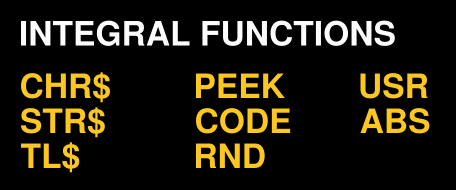
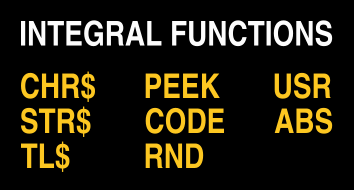
Keyboard pictures: the ZX80 functions as the ZX80's words, narrower
Viktor's choice: the words of the ZX80 functions in Heros Cn Bold, as
those of the ZX80 (7 pixels), the functions in three columns over the
width of the title, the picture as wide as the title and its margins
(101 pixels, it was 130; the window and its TImage in
KeyboardFunctions_.dfm as wide).

Claude-Session: https://claude.ai/code/session_01NM19GvsbPzKCYdva7s3UiR

diff --git a/Source/KBPics/svg/zx80functions.py b/Source/KBPics/svg/zx80functions.py
@@ -3,39 +3,52 @@
 # it), drawn again at a scale (2 if not given)
 #
 # The original (orig/zx80functions.png, 130 x 54) has no keys; the places of
-# its words are written here: their left edges and base lines, in pixels of
-# the original. The words are of Heros Bold (Viktor's choice: wide, as the
-# letters of the original), as high as the words of the ZX80 (7 pixels),
-# in the font's own spacing.
+# its words are written here, in pixels of the original. The words are of
+# Heros Cn Bold, as those of the ZX80 (7 pixels high), in the font's own
+# spacing; the functions in three columns over the width of the title
+# (Viktor's choice): the first at its left, the last ending at its right,
+# the middle one halfway between; the picture as wide as the title and the
+# margins at its sides (6 pixels, as in the original), 101 pixels (it was
+# 130: KeyboardFunctions_.dfm, the TImage and the window, as wide)
 import sys
 from kbdraw import font, hexcol
 
 WHITE, YELLOW, BLACK = (255, 255, 255), (255, 201, 33), (0, 0, 0)
-SIZE = (130, 54)
+SIZE = (101, 54)
+MARGIN = 6
 
-# The title, and the functions in three columns (as in the original)
-TITLE = ('INTEGRAL FUNCTIONS', 6, 13)
-COLUMNS = (6, 56, 103)
+# The title (its base line), and the functions (the base lines of the
+# three lines of them), as in the original
+TITLE = ('INTEGRAL FUNCTIONS', 13)
 LINES = (28, 38, 48)
 FUNCTIONS = (('CHR$', 'STR$', 'TL$'), ('PEEK', 'CODE', 'RND'), ('USR', 'ABS'))
 
 
 def main():
     S = float(sys.argv[2]) if len(sys.argv) > 2 else 2
-    f = font('herosb')
-    sc = 7 * S / f.outline('H')[1][3]
+    f = font('cnb')
+    sc = 7 / f.outline('H')[1][3]       # in pixels of the original
+
+    def width(t):
+        d, (x0, y0, x1, y1) = f.outline(t)
+        return (x1 - x0) * sc
+
     items = []
 
     def word(t, left, base, colour):
         d, (x0, y0, x1, y1) = f.outline(t)
         items.append('<path fill="%s" transform="matrix(%.5f 0 0 %.5f %.3f %.3f)" d="%s"/>'
-                     % (hexcol(colour), sc, -sc, left - sc * x0, base, d))
+                     % (hexcol(colour), sc * S, -sc * S, (left - sc * x0) * S, base * S, d))
 
-    t, left, base = TITLE
-    word(t, left * S, base * S, WHITE)
-    for x, words in zip(COLUMNS, FUNCTIONS):
-        for y, t in zip(LINES, words):
-            word(t, x * S, y * S, YELLOW)
+    t, base = TITLE
+    tw = width(t)
+    word(t, MARGIN, base, WHITE)
+    widths = [max(width(w) for w in c) for c in FUNCTIONS]
+    gap = (tw - sum(widths)) / 2
+    columns = (MARGIN, MARGIN + widths[0] + gap, MARGIN + tw - widths[2])
+    for x, words in zip(columns, FUNCTIONS):
+        for y, w in zip(LINES, words):
+            word(w, x, y, YELLOW)
 
     W, H = int((SIZE[0] * S * 4 + 2) // 4), int((SIZE[1] * S * 4 + 2) // 4)
     out = ['<svg xmlns="http://www.w3.org/2000/svg" width="%d" height="%d" viewBox="0 0 %d %d">' % (W, H, W, H),

diff --git a/Source/KBPics/svg/README.md b/Source/KBPics/svg/README.md
@@ -30,9 +30,9 @@ are sharp at any size:
 | `zx80functions.py` | `KeyboardFunctions_.dfm`, `zx80IntegralFunctions` | `orig/zx80functions.png` |
 
 They are drawn at 100% of the window (1.75 times the originals: 884 × 390,
-the keypad 263 × 390, the ZX80 functions 228 × 95), and the program holds
+the keypad 263 × 390, the ZX80 functions 177 × 95), and the program holds
 them at 200%, its largest size (1768 × 780, the keypad 526 × 780, the
-ZX80 functions 456 × 190), as PNG pictures in 256 colours
+ZX80 functions 354 × 190), as PNG pictures in 256 colours
 (the colours of the surfaces exactly) in its resources, named after the
 TImages they are shown for (`../png/<name>.png`, put into the program by
 `../../KBPics1.rc`–`KBPics3.rc`: three files, as the linker of C++Builder
@@ -131,9 +131,11 @@ graphics after them as in the original (`word(..., gap=2)`), the words of
 the large keys as in the original; its stars of three thin lines, as
 there. `analyze.py` finds its keys with `apart`, as its blue words touch
 its grey keys. The ZX80 functions (the window beside the ZX80 keyboard)
-has no keys: `zx80functions.py` gives the places of its words itself (as
-in the original), of Heros Bold (wide, as the letters there), 7 pixels
-high as the words of the ZX80.
+has no keys: `zx80functions.py` gives the places of its words itself, as
+the words of the ZX80 (Heros Cn Bold, 7 pixels high), the functions in
+three columns over the width of the title, the picture as wide as the
+title and its margins (101 pixels; the window in `KeyboardFunctions_.dfm`
+as wide).
 
 ## Making them
 

diff --git a/CHANGELOG-fork.md b/CHANGELOG-fork.md
@@ -18,7 +18,7 @@ itself are in `Release Files/Release history.txt`.
   TC2048, TS2068 and TS1500 (also with the ZXpand) keyboards, and of the
   Jupiter Ace, Lambda 8300, TK85 and Ringo R470 keyboards** are drawn
   again as vector graphics, at 100% (see below), and held at 200% (1768 ×
-  780, the keypad 526 × 780, the ZX80 functions 456 × 190) as PNG pictures
+  780, the keypad 526 × 780, the ZX80 functions 354 × 190) as PNG pictures
   in the resources of the program, so they are sharp: at 200% the picture
   is shown as it is, at the other sizes the program makes it smaller
   itself, each pixel the average of the part of the picture it covers (at
@@ -63,9 +63,10 @@ itself are in `Release Files/Release history.txt`.
   keys as in the original and their slanted letters. The Timex pictures
   keep their frames and keys pixel for pixel (sharp at every size), their
   texts are drawn again. The R470 keeps its blue L-shaped FUNC and ENTER
-  keys and its cyan GRAPHICS key. The words of the ZX80 functions are of
-  Heros Bold (wide, as in the original). The other keyboards keep their
-  pictures.
+  keys and its cyan GRAPHICS key. The words of the ZX80 functions are as
+  those of the ZX80, the functions in three columns over the width of the
+  title, and the window is narrower by so much. The other keyboards keep
+  their pictures.
 - *Help > Keyboard Map* sizes: **75%, 100%, 125%, 150%, 175% and 200%**;
   100%, the first, is 884 × 390, 1.75 times the original pictures (505 ×
   223; the sizes were 1x–2x). The size is shown in the title of the window

diff --git a/CHANGELOG-fork.hu.md b/CHANGELOG-fork.hu.md
@@ -20,7 +20,7 @@ készült. Magának az EightyOne-nak a változásai a
   valamint a Jupiter Ace, a Lambda 8300, a TK85 és a Ringo R470
   billentyűzetének** képe újra van rajzolva vektorgrafikaként, 100%-os
   méretre (lásd lent), és 200%-os méretben (1768 × 780, a keypad 526 ×
-  780, a ZX80-funkciók 456 × 190) PNG-képként van a program erőforrásai
+  780, a ZX80-funkciók 354 × 190) PNG-képként van a program erőforrásai
   között, így éles: 200%-on a kép változatlanul látszik, a többi méreten a
   program maga kicsinyíti, minden képpont a kép általa lefedett részének
   átlaga (100%-on négy képponté, így olyan éles, mint a rajz), minden
@@ -64,8 +64,9 @@ készült. Magának az EightyOne-nak a változásai a
   Timex képek keretei és billentyűi pixelre az eredetiek (minden méretben
   élesek), a feliratok újra vannak rajzolva. Az R470 kék, L alakú FUNC és
   ENTER billentyűje és türkiz GRAPHICS billentyűje megmaradt. A
-  ZX80-funkciók szavai Heros Bold betűsek (szélesek, mint az eredetin). A
-  többi billentyűzet képe nem változott.
+  ZX80-funkciók szavai olyanok, mint a ZX80 billentyűzetén, a függvények
+  három oszlopban a cím szélességében állnak, és az ablak ennyivel
+  keskenyebb. A többi billentyűzet képe nem változott.
 - A *Súgó > Billentyűzetkiosztás* méretei: **75%, 100%, 125%, 150%, 175%
   és 200%**; az első, a 100% 884 × 390, az eredeti képek (505 × 223)
   1,75-szöröse (eddig a méretek 1x–2x voltak). A méret az ablak címsorában
